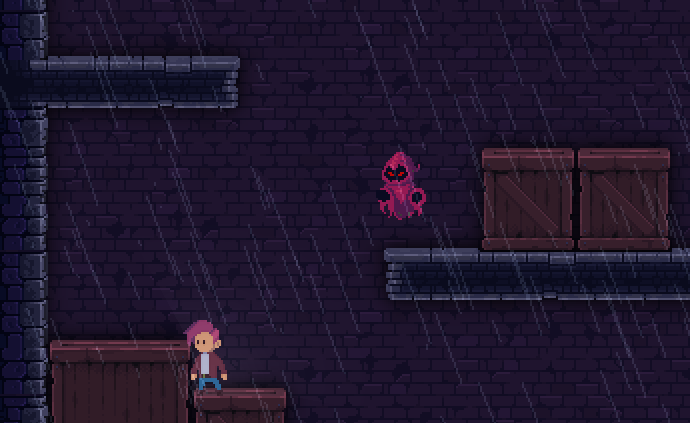
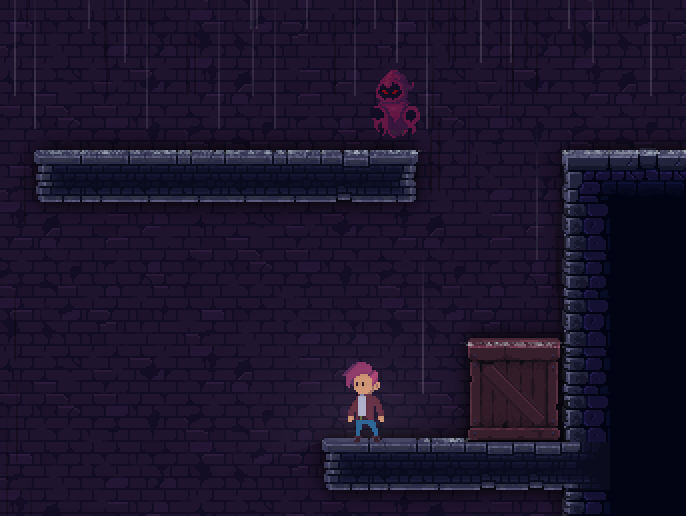
updated rain is documented

diff --git a/src/game/overlays/rainoverlay.cpp b/src/game/overlays/rainoverlay.cpp
@@ -178,8 +178,6 @@ void RainOverlay::update(const sf::Time& dt)
       _initialized = true;
    }
 
-
-
    auto fallthrough_index = 0;
    for (auto& p : _drops)
    {

diff --git a/doc/level_design/readme.md b/doc/level_design/readme.md
@@ -804,7 +804,15 @@ Here's an example of a fragment shader implementing a waterfall:
 
 While this document is written, the Deceptus Engine supports only a single weather type and that is rain. Great. So if you are planning to have any outdoorsy part in your level that's supposed to have shitty weather, then create an object group `weather` and define a rainy region by setting up a rectangle in there. The rectangle's name is supposed to start with `rain`.
 
-That's all.
+Rain layers have the custom properties below:
+
+|Custom Property|Type|Description|
+|-|-|-|
+|z|int|The z depth of your rain layer|
+|collide|bool|Set to true if rain drops should collide with the Box2D world; otherwise they will just fall through|
+|drop_count|int|Number of rain drops used inside this layer|
+|fall_through_rate|int|Decides how many nth rain drops are passed through to the collision detection. Set to `0` or `1` to make every rain drop colliding, set to `2` to pass every second drop to the collision detection, and so on. This setting is only relevant when `collide` is set to `true`.|
+
 
 ![](images/weather_rain.png)
 